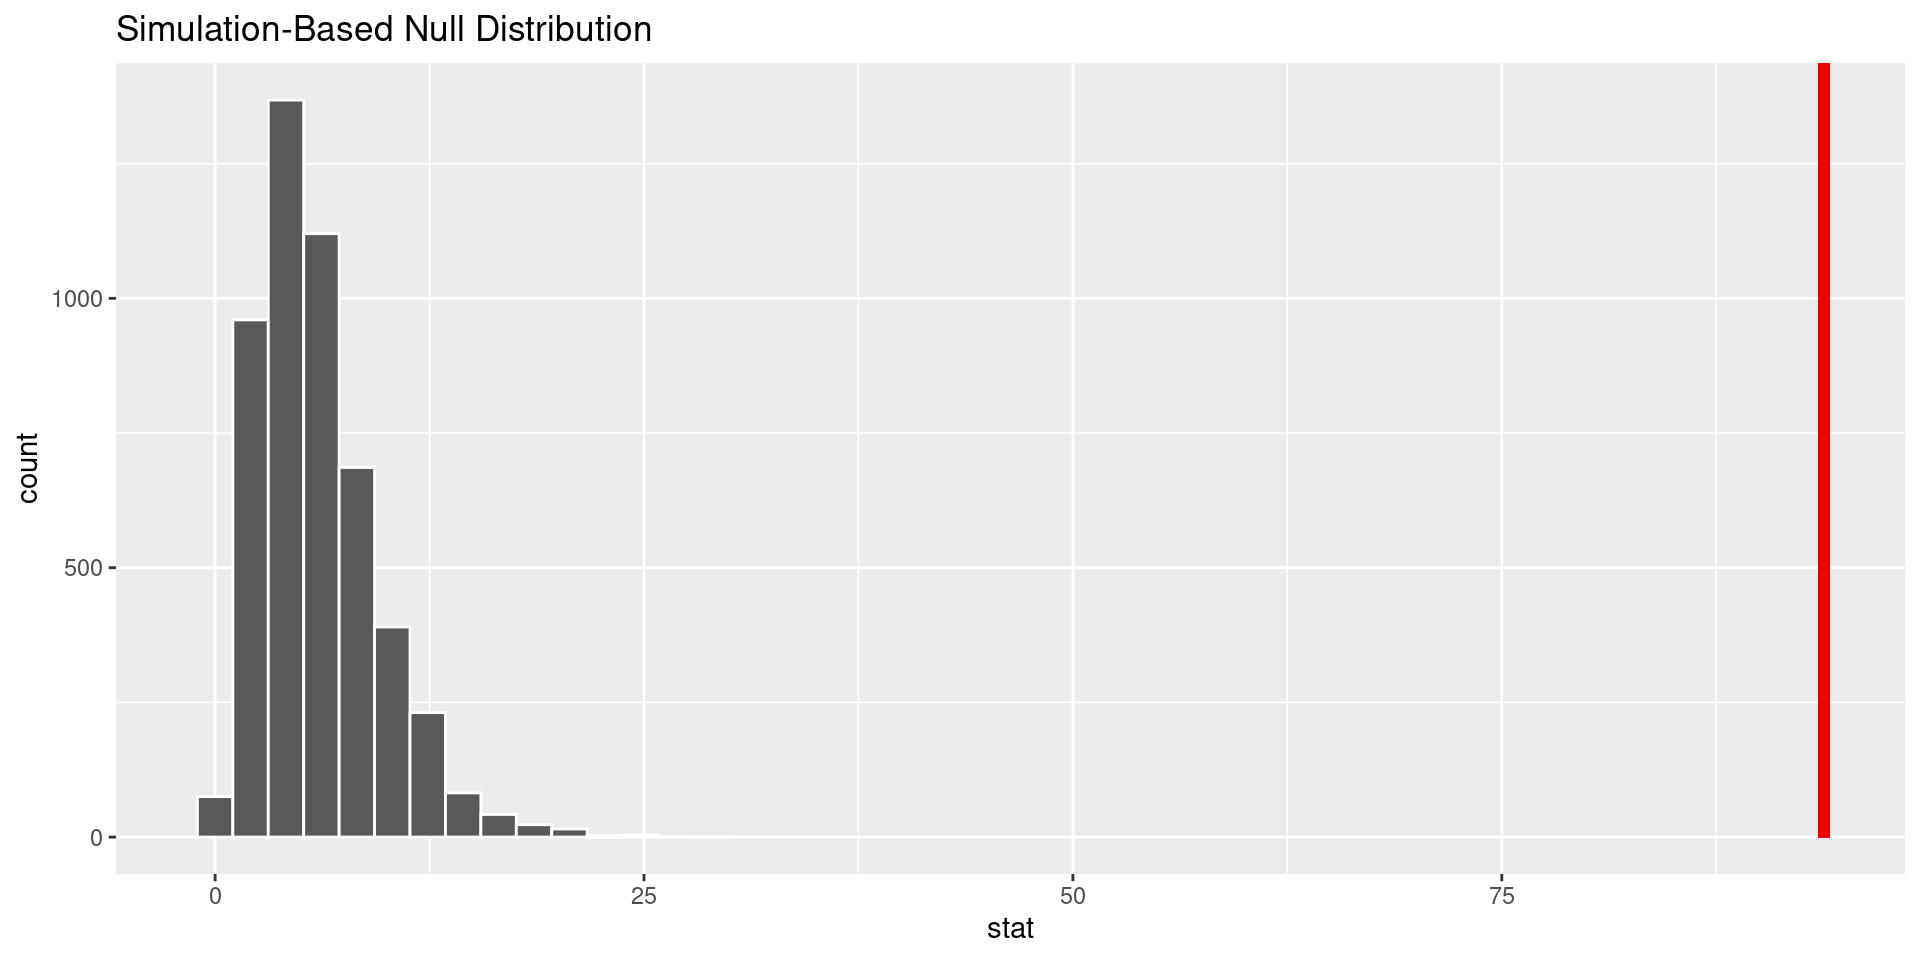
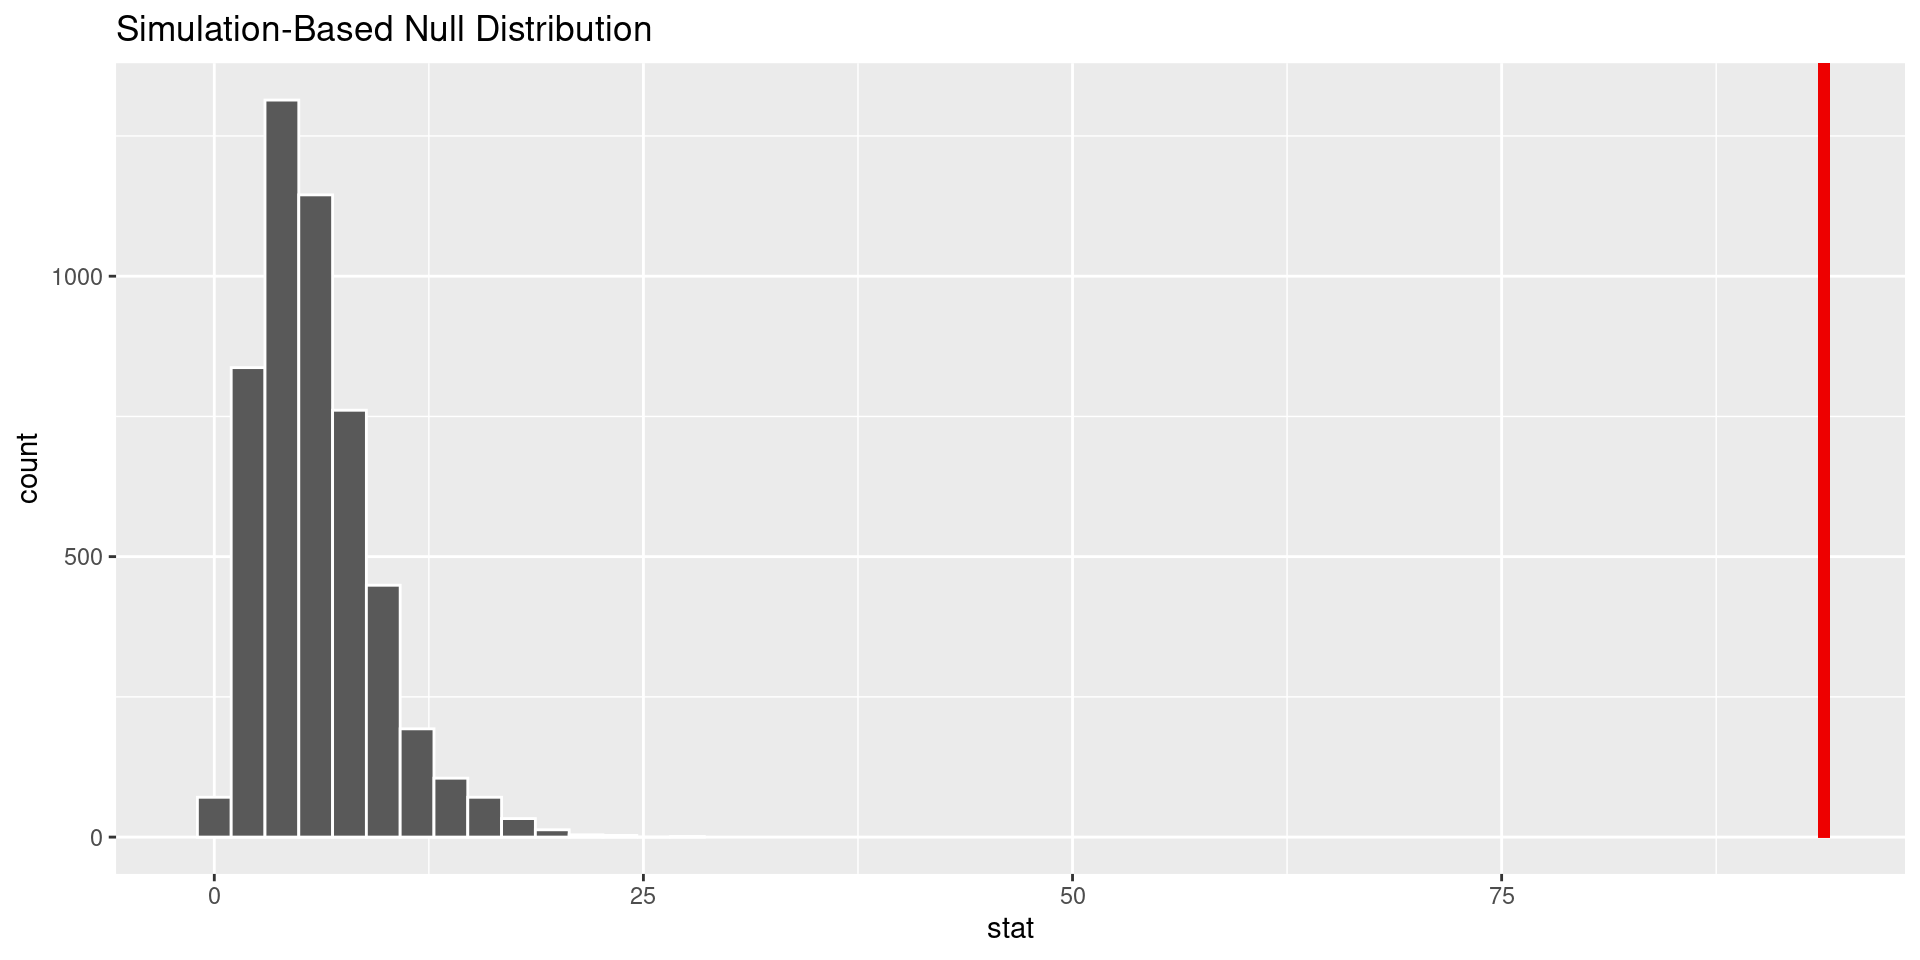
add inference 2

Changed region(s): [[0.125, 0.125, 0.3125, 0.875], [0.0312, 0.5625, 0.0625, 0.5938], [0.0312, 0.2812, 0.0625, 0.3125]]

diff --git a/docs/presentation.html b/docs/presentation.html
@@ -402,10 +402,33 @@ Brilliant Cassowary <br> Jinpeng Li, Joice Chen, Nidhi Soma, Stephen Syl-Akinwal
 </div>
 </div>
 <img data-src="presentation_files/figure-revealjs/chi-sqr-test-1.png" width="960" class="r-stretch"></section>
-<section id="inference-for-sweetener-number" class="slide level2">
-<h2>Inference for Sweetener Number</h2>
-<p>Your results here</p>
+<section id="hypothesis-test-for-sweetener-preference" class="slide level2">
+<h2>Hypothesis Test for Sweetener Preference</h2>
+<p>Null hypothesis: The true average number of types of sweetener preferred is the same between people in America with a Bachelor’s degree or higher and people without a Bachelor’s degree.</p>
+<p>Alternative hypothesis: The true average number of types of sweetener preferred is not the same between people in America with a Bachelor’s degree or higher and people without a Bachelor’s degree.</p>
+<div class="cell">
+<div class="cell-output cell-output-stdout">
+<pre><code># A tibble: 2 × 2
+  education_level  mean
+  &lt;fct&gt;           &lt;dbl&gt;
+1 bachelor         1.46
+2 no_bachelor      1.41</code></pre>
+</div>
+</div>
+<p>The observed statistic is 1.455-1.408 = 0.047</p>
 </section>
+<section id="hypothesis-test-for-sweetener-preference-1" class="slide level2">
+<h2>Hypothesis Test for Sweetener Preference</h2>
+<div class="cell">
+
+<div class="cell-output cell-output-stdout">
+<pre><code># A tibble: 1 × 1
+  p_value
+    &lt;dbl&gt;
+1   0.348</code></pre>
+</div>
+</div>
+<img data-src="presentation_files/figure-revealjs/unnamed-chunk-7-1.png" width="960" class="r-stretch"></section>
 <section id="conclusions-future-work" class="slide level2">
 <h2>Conclusions + future work</h2>
 </section>
